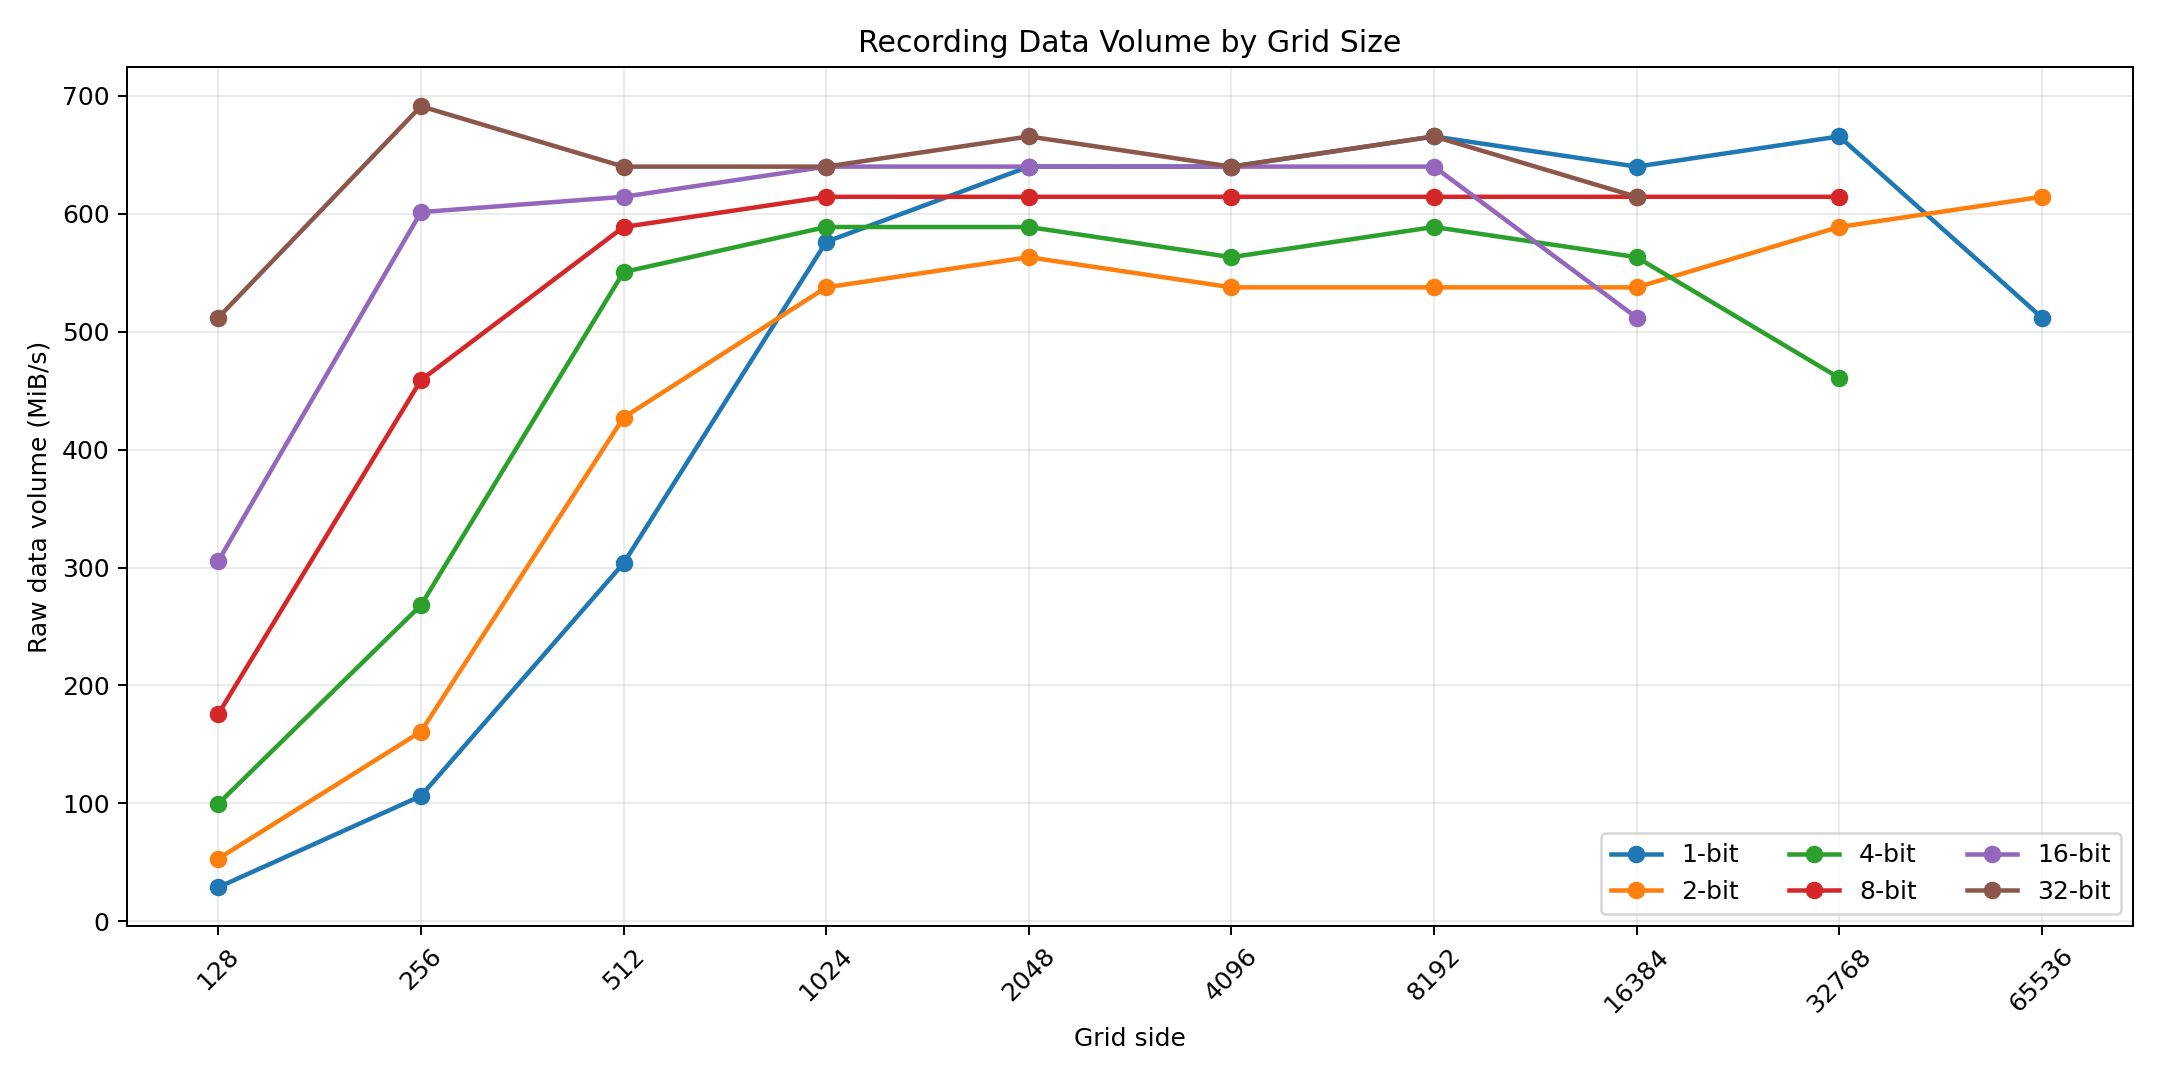
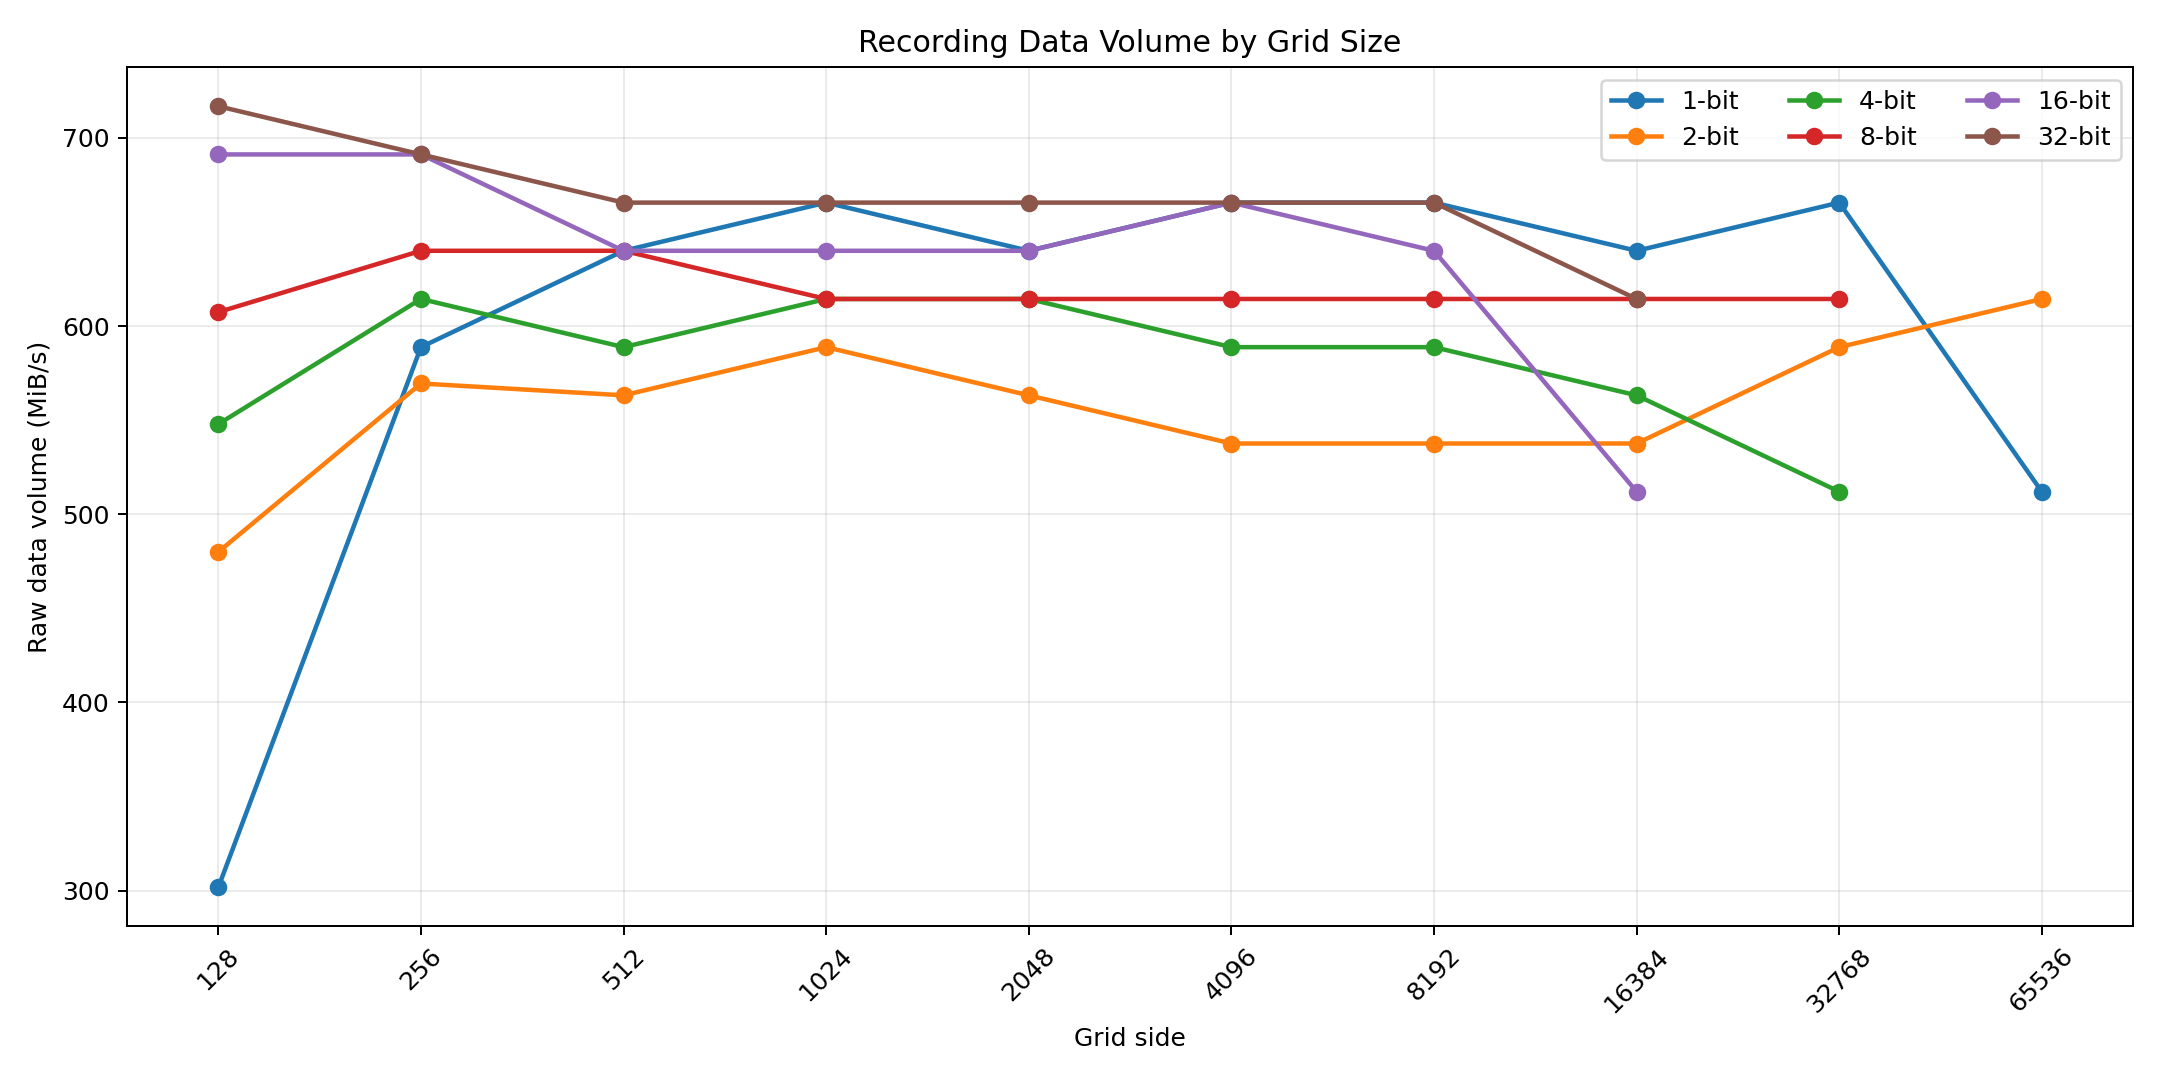
Update benchmark results.

diff --git a/benchmark/benchmark-runner.js b/benchmark/benchmark-runner.js
@@ -21,16 +21,16 @@
   const CHECKPOINT_KEY = 'golt-benchmark-results-v1';
 
   const CONFIG = {
-    runSeconds: 10,
+    runSeconds: 60,
     warmUpSeconds: 5,
     counterSettleSeconds: 2,
     preRunPauseSeconds: 3,
-    repeats: 3,
+    repeats: 5,
     cooldownSeconds: 30,
     rebuildTimeoutSeconds: 240,
     settleAfterClickMs: 150,
     settleAfterStopMs: 1000,
-    outputPrefix: 'golt-benchmark-rerun',
+    outputPrefix: 'golt-benchmark-run',
     modes: [
       {id: 'baseline', recording: false},
       {id: 'recording', recording: true}

diff --git a/benchmark/plot-benchmarks.py b/benchmark/plot-benchmarks.py
@@ -2,10 +2,10 @@
 
 Usage::
 
-  python readme/plot-benchmarks.py
+  python benchmark/plot-benchmarks.py
 
-The script reads ``readme/benchmark-results.csv`` and writes PNG plots to
-``readme/plots``. It requires ``matplotlib``.
+The script reads ``benchmark/benchmark-results.csv`` and writes PNG plots to
+``benchmark/plots``. It requires ``matplotlib``.
 """
 
 import argparse
@@ -20,8 +20,8 @@ def parse_args() -> argparse.Namespace:
   :rtype: argparse.Namespace
   """
   parser = argparse.ArgumentParser(description="Plot README benchmark CSV data.")
-  parser.add_argument("--input", default="readme/benchmark-results.csv", help="Input benchmark CSV path.")
-  parser.add_argument("--output-dir", default="readme/plots", help="Output directory for PNG plots.")
+  parser.add_argument("--input", default="benchmark/benchmark-results.csv", help="Input benchmark CSV path.")
+  parser.add_argument("--output-dir", default="benchmark/plots", help="Output directory for PNG plots.")
   return parser.parse_args()
 
 def read_rows(path: Path) -> list[dict[str, str | float | int]]:
@@ -45,7 +45,6 @@ def read_rows(path: Path) -> list[dict[str, str | float | int]]:
         "gen_per_second": float(row["gen_per_second"]),
         "cell_updates_per_second": float(row["cell_updates_per_second"]),
         "data_volume_bytes_per_second": float(row["data_volume_bytes_per_second"]) if row["data_volume_bytes_per_second"] else 0.0,
-        "backpressure": row["backpressure"],
       })
   return rows
 
@@ -267,26 +266,6 @@ def plot_frame_size_vs_recording_volume(rows: list[dict[str, str | float | int]]
   ax.set_ylabel("Raw data volume (MiB/s)")
   ax.set_xscale("log")
   set_frame_size_ticks(ax, recording)
-
-  no_backpressure = [
-    float(row["data_volume_bytes_per_second"]) / 1024 / 1024
-    for row in recording
-    if row["backpressure"] == "No"
-  ]
-  with_backpressure = [
-    float(row["data_volume_bytes_per_second"]) / 1024 / 1024
-    for row in recording
-    if row["backpressure"] == "Yes"
-  ]
-  if no_backpressure and with_backpressure:
-    threshold = (max(no_backpressure) + min(with_backpressure)) / 2
-    ax.axhline(
-      threshold,
-      color="#dc2626",
-      linestyle="--",
-      linewidth=1.4,
-      label=f"Backpressure separator (~{threshold:.0f} MiB/s)",
-    )
 
   ax.grid(True, alpha=0.25)
   ax.legend(ncol=3)

diff --git a/README.md b/README.md
@@ -128,17 +128,17 @@ A detailed benchmark write-up is available in the wiki:
 - [Results](https://github.com/rChimisso/game-of-life-tribes/wiki/Benchmark-Results)
 - [Conclusions](https://github.com/rChimisso/game-of-life-tribes/wiki/Benchmark-Conclusions)
 
-The normalized source data is stored in [`readme/benchmark-results.csv`](readme/benchmark-results.csv). The runs use the **Conway** preset on a plugged-in laptop with an Intel Core i7-12700H, an NVIDIA RTX 3070 Ti Laptop GPU, 64 GB of DDR5 RAM, a Samsung SSD 980 PRO, and Opera GX running on the dedicated GPU.
+The normalized source data is stored in [`benchmark/benchmark-results.csv`](benchmark/benchmark-results.csv). The runs use the **Conway** preset on a plugged-in laptop with an Intel Core i7-12700H, an NVIDIA RTX 3070 Ti Laptop GPU, 64 GB of DDR5 RAM, a Samsung SSD 980 PRO, and Opera GX running on the dedicated GPU.
 
 Main takeaways:
 
 - Without recording, smaller grids may favor wider bit packings, while larger grids generally benefit from shorter bit packings. This depends heavily on the device, browser, and grid size, so test the combinations you actually use.
-- When recording, prefer the shortest bit packing that can represent your tribes. Smaller frames reduce storage use, readback pressure, and export cost.
+- When recording, prefer the shortest bit packing that can represent your tribes. Smaller frames reduce storage use and readback pressure.
 - Bigger grids do fewer generations per second because each generation updates more cells, but total cell updates per second stay fairly consistent once the grid is large enough. Very small grids are mostly overhead-limited.
 - If you only need a reproducible starting point, save a snapshot instead of recording the whole history.
 - If you are unsure whether you will need history later, save a snapshot first. Since evolution is deterministic, you can load it later and record the same run from that point.
 - Max speed can reach higher throughput than fixed target speeds because it disables rendering and does not need to keep the simulation interactive.
-- Recording backpressure can severely limit speed. Once it appears, throughput depends strongly on readback, CPU-side work, browser storage behavior, and storage speed, not only on GPU simulation performance.
+- Every recording run hit backpressure. Recording throughput therefore depends strongly on readback, CPU-side work, browser storage behavior, and storage speed, not only on GPU simulation performance.
 
 ## Useful Notes
 
@@ -150,5 +150,3 @@ Main takeaways:
 - Recording is most useful when enabled before the event you care about. Snapshots are better for saving a restart point.
 - Browser storage is not infinite. Long recordings on large grids can consume quota quickly, especially with larger bits-per-cell formats.
 - Presets are starting points. Muting one rule or changing one threshold is often enough to reveal what gives a ruleset its character.
-
-
